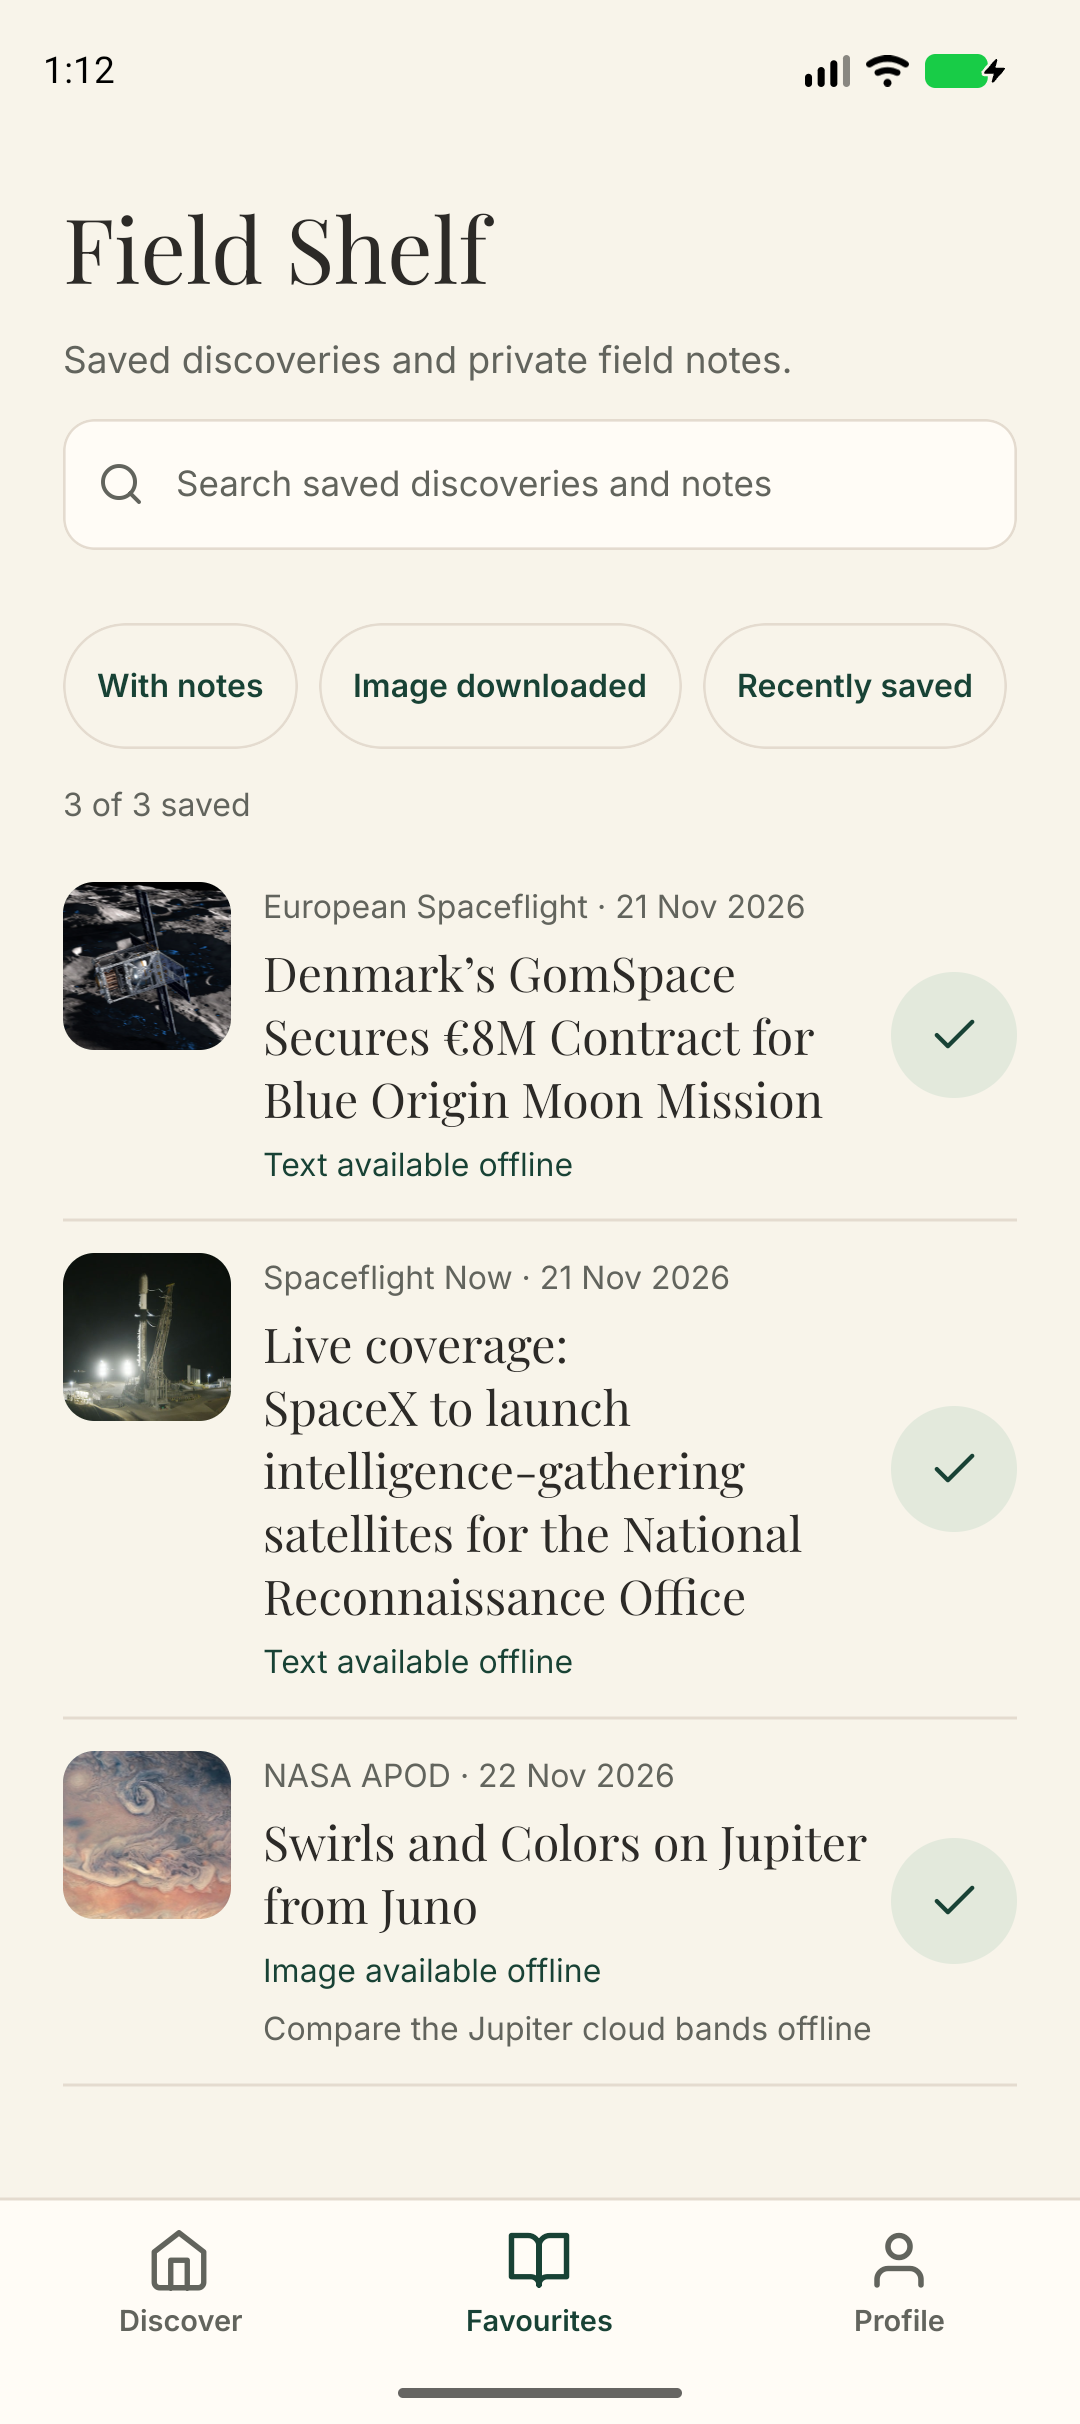
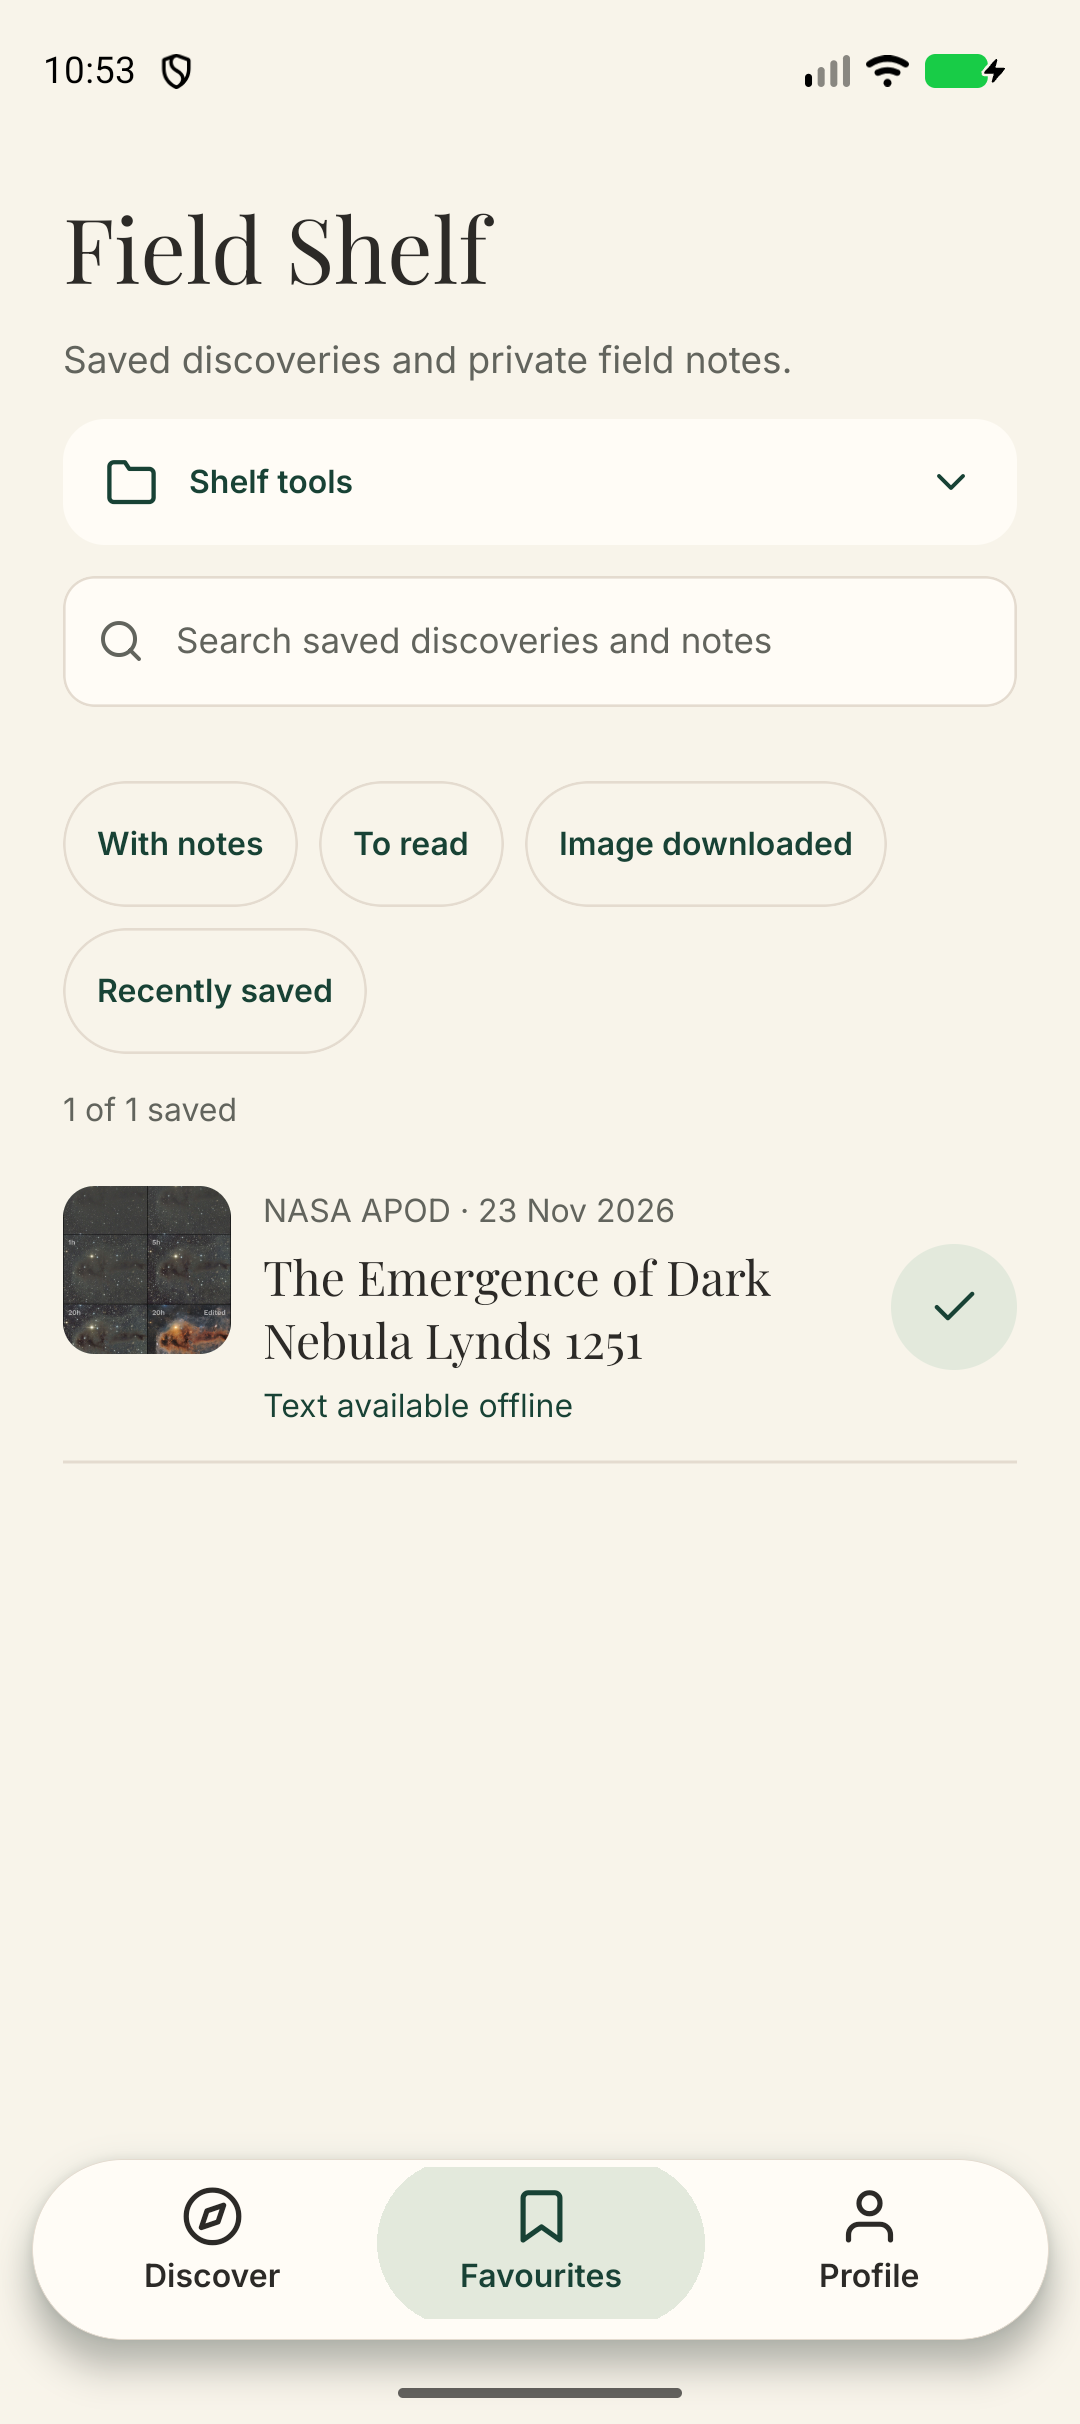
Document platform refresh with native screenshots and offline evidence

diff --git a/README.md b/README.md
@@ -45,15 +45,15 @@ Scroll into a story to save a reading position. **Continue Reading** on Discover
 
 **Search offline library** searches public cached story text, including recent dated lookups and the current account's saved records. Titles rank ahead of matches in the body or credits. Search the Shelf for private notes. **Browse by date** opens a NASA plate from SQLite or retrieves it online the first time it is needed. Opening an older plate does not change the latest feed snapshot.
 
-**On This Day** offers an earlier NASA plate from the same month and day. Discover checks the local archive first. If no match is stored, it offers an online lookup for the most recent eligible prior year.
+Under **Study, sky and archives**, **On This Day** offers an earlier NASA plate from the same month and day. Discover checks the local archive first. If no match is stored, it offers an online lookup for the most recent eligible prior year.
 
-On the Field Shelf, open **Collections**, create a named collection, then tap **Choose discoveries** to group existing favourites. A discovery can belong to multiple collections. You can create, rename, edit, and browse collections offline. Deleting a collection keeps its favourites and field notes.
+On the Field Shelf, open **Shelf tools → Collections**, create a named collection, then tap **Choose discoveries** to group existing favourites. A discovery can belong to multiple collections. You can create, rename, edit, and browse collections offline. Deleting a collection keeps its favourites and field notes.
 
-From Discover, open **Offline reading packs** to download **A Tour of Saturn** or **Apollo at the Moon**. Each card shows which plates are stored and the status of images eligible for offline storage. If the connection drops, reopen the pack and resume the missing entries. Removing a download keeps any matching favourites, notes, and reading history.
+From Discover, open **Study, sky and archives → Offline reading packs** to download **A Tour of Saturn** or **Apollo at the Moon**. Each card shows which plates are stored and the status of images eligible for offline storage. If the connection drops, reopen the pack and resume the missing entries. Removing a download keeps any matching favourites, notes, and reading history.
 
 ### Sky Viewer
 
-Open **Sky Viewer** in Discover and tap **Use my location**. Hold the back of your phone toward the sky to orient the chart. To explore manually, drag the chart or use the arrow buttons. **Change location** accepts signed decimal coordinates and offers a Colombo preview. Tap a marker or choose an object in **Objects above the horizon** to read its details and follow its source links.
+Open **Discover → Study, sky and archives → Sky Viewer** and tap **Use my location**. Hold the back of your phone toward the sky to orient the chart. To explore manually, drag the chart or use the arrow buttons. **Change location** accepts signed decimal coordinates and offers a Colombo preview. Tap a marker or choose an object in **Objects above the horizon** to read its details and follow its source links.
 
 The bundled star and deep-sky catalogs, Moon and planet positions, and detail text work offline. The chart shows geometric positions. Your equipment, daylight, and observing conditions affect what you can see. When orbit data is available, the ISS and Hubble are shown as predictions. The viewer flags elements at 24 hours and hides predictions at 72 hours. Locations and motion readings stay in memory. [Catalog sources and licences](src/features/sky/catalog/README.md)
 
@@ -67,6 +67,14 @@ NASA APOD and Spaceflight News retain the original publication link, available c
 - [NASA Earthrise](https://science.nasa.gov/resource/apollo-8s-iconic-earthrise/)
 - [Jupiter image credits](https://science.nasa.gov/wp-json/wp/v2/apod-basic/261122) · NASA/Juno/SwRI/MSSS, processing by Matt Brealey and Seán Doran · [CC BY-NC 3.0](https://creativecommons.org/licenses/by-nc/3.0/)
 - [Cocoon Nebula Wide Field](https://apod.nasa.gov/apod/ap140918.html) · Federico Pelliccia
+
+## Platform controls
+
+Discover, Favourites and Profile float above the feed. Supported iPhones use native Liquid Glass. Reduce Transparency switches to an opaque surface, and Android uses an elevated ivory capsule. The same material groups the four manual Sky Viewer controls. Both lists and article text remain opaque.
+
+| iOS Discover (Expo Go) | Android manual sky controls | Offline source credit |
+| --- | --- | --- |
+| ![iOS floating tabs](docs/screenshots/20-ios-floating-tabs.png) | ![Manual direction controls beneath the chart](docs/screenshots/21-sky-controls.png) | ![Saved source information in airplane mode](docs/screenshots/19-offline-source.png) |
 
 ## Screenshots
 
@@ -128,7 +136,7 @@ Jest exercises auth lifecycle, real SQLite migrations and rollback through Node'
 
 ## Space Study
 
-Open **Discover → Space Study** for eight original introductory chapters and the object atlas. Try **M31**, **25544**, **Titan** or **Starlink**. Chapters include definitions, examples and source links. Save a section to the Field Shelf, add a private field note or reopen the last chapter with **Continue reading**. The bundled guide and the Earthrise figure are available after an offline restart with a restored session.
+Open **Discover → Study, sky and archives → Space Study** for eight original introductory chapters and the object atlas. Try **M31**, **25544**, **Titan** or **Starlink**. Chapters include definitions, examples and source links. Save a section to the Field Shelf, add a private field note or reopen the last chapter with **Continue reading**. The bundled guide and the Earthrise figure are available after an offline restart with a restored session.
 
 **My sky → Change location** searches 52,004 places offline. Pick a city to use its coordinates and civil time zone. Selecting another location or the Colombo preview replaces the remembered city. Geometric altitude tells you where a target lies relative to the horizon. Weather and daylight still affect observation. The first edition includes STARLINK-1008 and STARLINK-1012 alongside ISS and Hubble. [GeoNames attribution](assets/study/README.md) · [CelesTrak Starlink catalog](https://celestrak.org/NORAD/elements/table.php?GROUP=starlink)
 

diff --git a/docs/PROGRESS.md b/docs/PROGRESS.md
@@ -317,3 +317,13 @@ Space Study uses destination rows for editions, related reading and sky links. T
 ## Floating controls accessibility verification
 
 The native accessibility hierarchy exposed decorative Feather glyphs in tab names. Android also retained offscreen tab controls while the search keyboard was open. Tabs now have explicit names and unmount during keyboard entry. On the final Android release, the accessibility tree lost the tab controls during typing and restored them on dismissal. All 99 Jest tests, strict TypeScript and full ESLint passed.
+
+## Device evidence and review cut
+
+The Pixel 9 Android 17 emulator ran the locally signed ARM64 release. The public demo login loaded both sources. Saving the Daily Plate, opening Shelf tools and the collection editor, and reopening its original credit after a force-stop in airplane mode succeeded. Reconnection restored the source refresh controls. The manual sky toolbar panned the Colombo preview. Tab labels and 48 dp hit areas were checked at 320, 360, 390 and 430 dp, including 1.6× text at 320 dp. Sign out scrolled above the floating bar in three-button navigation.
+
+The iPhone 17 simulator on iOS 27.2 displayed the glass bar in Expo Go. XCTest selected Favourites, opened Shelf tools, selected Profile and returned to Discover. The production iOS JavaScript export completed. Standalone iOS signing and physical-device VoiceOver/TalkBack listening were outside these simulator checks. The app retains its existing portrait orientation.
+
+Updated screenshots show the core journey, iOS tabs, manual sky toolbar and offline provenance. The local Android QA APK is `dist/cosmolog-editorial-qa.apk`. The H.264/AAC narrated cut is `dist/cosmolog-editorial-demo.mp4` and decoded successfully at 149.37 seconds.
+
+The iOS navigation XCTest also passed with Accessibility Large text and Increase Contrast enabled. The simulator settings were restored after the check.

diff --git a/AI_USAGE.md b/AI_USAGE.md
@@ -46,3 +46,7 @@ Codex implemented the offline sky chart, location and phone pointing, and a SQLi
 AI assisted with drafting original guide text, connecting the reader and sky atlas, generating the GeoNames importer, and writing migration and pack tests. A chapter-index-only checkpoint was revised to use stable section identifiers so reordering a later edition can preserve the reader’s place. The content checks cover missing links, sources, section identifiers, section order and pack integrity. Student scientific and editorial review of the new guide remains required before submission.
 
 During Android verification a pack installation failed because an Expo file write was still pending at checksum time. The installer now awaits the native write and verifies SHA-256. A delayed-write test reproduces the timing condition. The student must review the data licensing, source material and narration before submission.
+
+## Platform control refresh
+
+Codex implemented the platform surfaces, destination groups and shared button changes. During emulator testing, a tab’s generated accessibility name included the decorative Feather glyph. The corrected implementation gives each destination an explicit accessibility label and hides decorative icon text from assistive technology.

diff --git a/docs/DEMO_SCRIPT.md b/docs/DEMO_SCRIPT.md
@@ -33,3 +33,7 @@ The local file `dist/cosmolog-space-study-demo.mp4` is 2 minutes 25 seconds. It 
 | 1:23–1:41 | Explain account-owned SQLite checkpoints and stable section IDs. |
 | 1:41–2:01 | Explain resumable parts, checksums and transactional pack installation. |
 | 2:01–2:25 | Explain local orbit prediction, epoch age and reconnection. |
+
+## Editorial controls review cut
+
+The refreshed cut is `dist/cosmolog-editorial-demo.mp4` (149.37 seconds). New Android screenshots show sign-in, Discover, Details, Favourites, the offline cold launch and original-source information. The second half reuses the narrated architecture walkthrough. Both the H.264 video and AAC audio decoded end to end.
